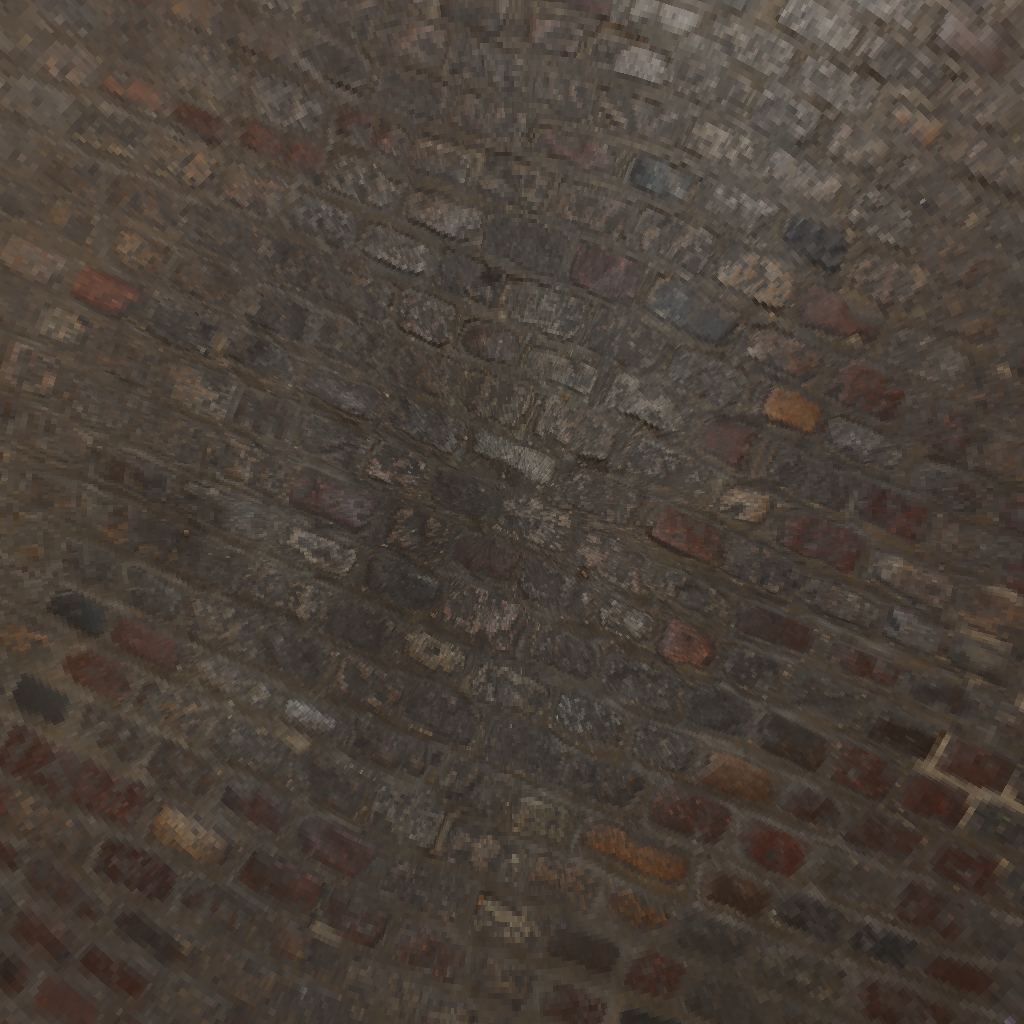
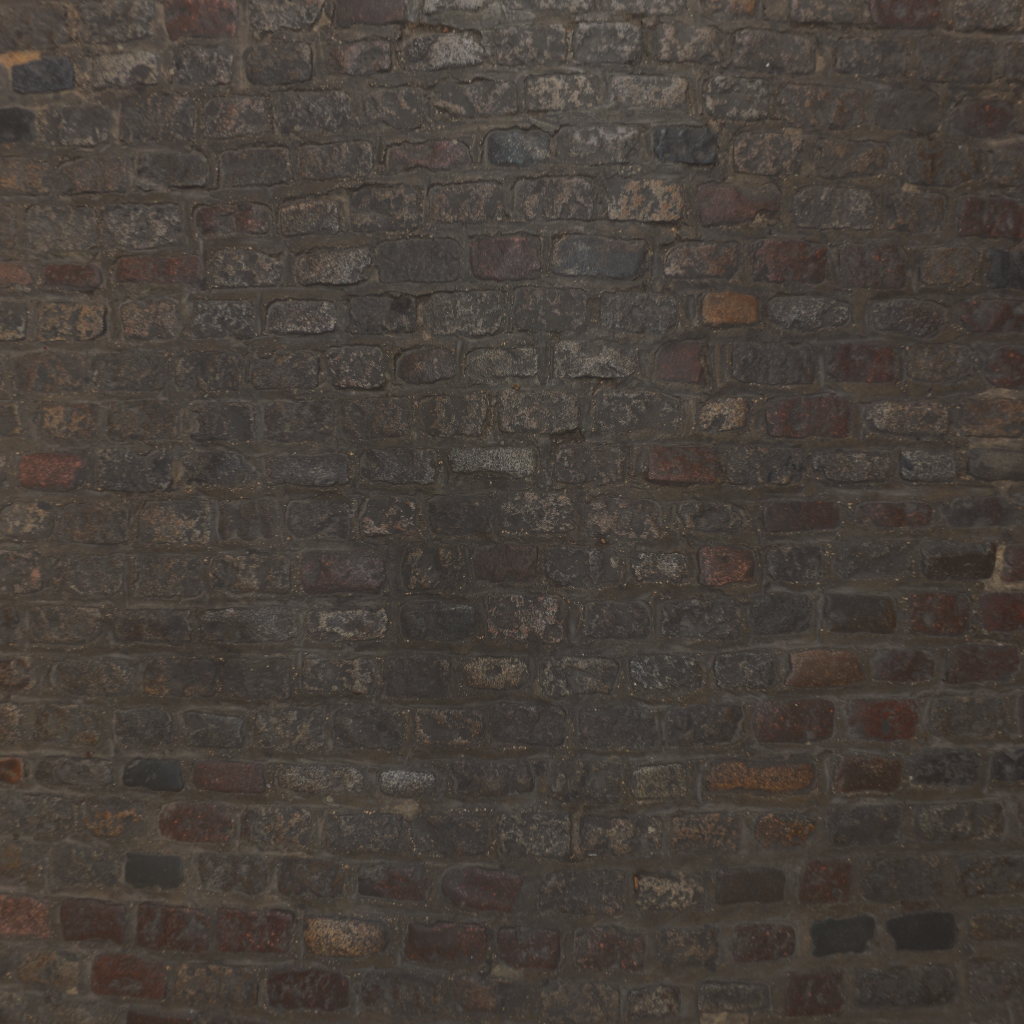
Prettier skybox.

diff --git a/app/a/webgl/cubemaps/Skybox.jsx b/app/a/webgl/cubemaps/Skybox.jsx
@@ -1,6 +1,6 @@
 "use client";
 
-import { AttributeState, Buffer, Color, Program, Context, VAO, FaceDirection, Cubemap, TestFunction } from "@lakuna/ugl";
+import { AttributeState, Buffer, Color, Program, Context, VAO, FaceDirection, Cubemap, TestFunction, TextureMinFilter, TextureMagFilter } from "@lakuna/ugl";
 import { mat4, vec3 } from "gl-matrix";
 import AnimatedCanvas from "../AnimatedCanvas";
 import domain from "../../../../shared/domain";
@@ -45,10 +45,10 @@ const skyboxFss = `#version 300 es
 precision highp float;
 in vec4 v_position;
 uniform samplerCube u_texture;
-uniform mat4 u_invViewProjMat;
+uniform mat4 u_invViewDirProjMat;
 out vec4 outColor;
 void main() {
-	vec4 t = u_invViewProjMat * v_position;
+	vec4 t = u_invViewDirProjMat * v_position;
 	outColor = texture(u_texture, normalize(t.xyz / t.w));
 }`;
 
@@ -174,6 +174,9 @@ const pzUrl = `${domain}images/webgl-example-environment-map/pz.png`;
 const nzUrl = `${domain}images/webgl-example-environment-map/nz.png`;
 
 const transparent = new Color(0, 0, 0, 0);
+const cubePos = vec3.fromValues(0, 0, 0);
+const up = vec3.fromValues(0, 1, 0);
+const camDist = 5;
 
 export default function Skybox(props) {
 	return AnimatedCanvas((canvas) => {
@@ -196,6 +199,8 @@ export default function Skybox(props) {
 		], quadIndexData);
 
 		const cubemap = Cubemap.fromImageUrls(gl, pxUrl, nxUrl, pyUrl, nyUrl, pzUrl, nzUrl);
+		cubemap.minFilter = TextureMinFilter.LINEAR_MIPMAP_LINEAR;
+		cubemap.magFilter = TextureMagFilter.LINEAR;
 
 		const camPos = vec3.create();
 
@@ -204,8 +209,9 @@ export default function Skybox(props) {
 		const viewMat = mat4.create();
 		const viewProjMat = mat4.create();
 		const mat = mat4.create();
-		const invTransMat = mat4.create();
-		const invViewProjMat = mat4.create();
+		const viewDirMat = mat4.create();
+		const viewDirProjMat = mat4.create();
+		const invViewDirProjMat = mat4.create();
 
 		return function render(now) {
 			gl.depthFunction = TestFunction.LEQUAL;
@@ -215,22 +221,16 @@ export default function Skybox(props) {
 
 			mat4.perspective(projMat, Math.PI / 4, canvas.clientWidth / canvas.clientHeight, 1, 1000);
 
-			vec3.zero(camPos);
-			mat4.identity(camMat);
-			mat4.rotateY(camMat, camMat, 0.0002 * now);
-			mat4.translate(camMat, camMat, [0, 0, 5]);
-			vec3.transformMat4(camPos, camPos, camMat);
-			mat4.targetTo(camMat, camPos, [0, 0, 0], [0, 1, 0]);
+			vec3.set(camPos, Math.cos(now * 0.0001) * camDist, 0, Math.sin(now * 0.0001) * camDist);
+			mat4.targetTo(camMat, camPos, cubePos, up);
 
 			mat4.invert(viewMat, camMat);
 
 			mat4.multiply(viewProjMat, projMat, viewMat);
 
 			mat4.identity(mat);
-			mat4.rotateZ(mat, mat, 0.00005 * now);
-
-			mat4.invert(invTransMat, mat);
-			mat4.transpose(invTransMat, invTransMat);
+			mat4.translate(mat, mat, cubePos);
+			mat4.rotateX(mat, mat, 0.00011 * now);
 
 			cubeVao.draw({
 				"u_viewProjMat": viewProjMat,
@@ -239,11 +239,18 @@ export default function Skybox(props) {
 				"u_worldCamPos": camPos
 			});
 
-			mat4.invert(invViewProjMat, viewProjMat);
+			mat4.copy(viewDirMat, viewMat);
+			viewDirMat[12] = 0;
+			viewDirMat[13] = 0;
+			viewDirMat[14] = 0;
+
+			mat4.multiply(viewDirProjMat, projMat, viewDirMat);
+
+			mat4.invert(invViewDirProjMat, viewDirProjMat);
 
 			quadVao.draw({
 				"u_texture": cubemap,
-				"u_invViewProjMat": invViewProjMat
+				"u_invViewDirProjMat": invViewDirProjMat
 			});
 		}
 	}, props);

diff --git a/app/a/webgl/cubemaps/EnvironmentMap.jsx b/app/a/webgl/cubemaps/EnvironmentMap.jsx
@@ -1,6 +1,6 @@
 "use client";
 
-import { AttributeState, Buffer, Color, Program, Context, VAO, FaceDirection, Cubemap } from "@lakuna/ugl";
+import { AttributeState, Buffer, Color, Program, Context, VAO, FaceDirection, Cubemap, TextureMinFilter, TextureMagFilter } from "@lakuna/ugl";
 import { mat4, vec3 } from "gl-matrix";
 import AnimatedCanvas from "../AnimatedCanvas";
 import domain from "../../../../shared/domain";
@@ -158,6 +158,8 @@ export default function EnvironmentMap(props) {
 		], indexData);
 
 		const cubemap = Cubemap.fromImageUrls(gl, pxUrl, nxUrl, pyUrl, nyUrl, pzUrl, nzUrl);
+		cubemap.minFilter = TextureMinFilter.LINEAR_MIPMAP_LINEAR;
+		cubemap.magFilter = TextureMagFilter.LINEAR;
 
 		const camPos = vec3.create();
 
@@ -166,7 +168,6 @@ export default function EnvironmentMap(props) {
 		const viewMat = mat4.create();
 		const viewProjMat = mat4.create();
 		const mat = mat4.create();
-		const invTransMat = mat4.create();
 
 		return function render(now) {
 			gl.clear(transparent, 1);
@@ -188,9 +189,6 @@ export default function EnvironmentMap(props) {
 
 			mat4.identity(mat);
 			mat4.rotateZ(mat, mat, 0.0001 * now);
-
-			mat4.invert(invTransMat, mat);
-			mat4.transpose(invTransMat, invTransMat);
 
 			vao.draw({
 				"u_viewProjMat": viewProjMat,

diff --git a/app/a/webgl/cubemaps/SolidColorCubemap.jsx b/app/a/webgl/cubemaps/SolidColorCubemap.jsx
@@ -1,6 +1,6 @@
 "use client";
 
-import { AttributeState, Buffer, Color, Program, Context, VAO, FaceDirection, Cubemap, Mipmap, CubemapMip } from "@lakuna/ugl";
+import { AttributeState, Buffer, Color, Program, Context, VAO, FaceDirection, Cubemap, Mipmap, CubemapMip, TextureMagFilter, TextureMinFilter } from "@lakuna/ugl";
 import { mat4, vec3 } from "gl-matrix";
 import AnimatedCanvas from "../AnimatedCanvas";
 
